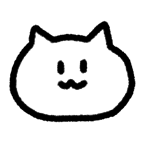
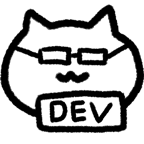
아이콘/contact 업데이트

diff --git a/app/contact/contact.module.css b/app/contact/contact.module.css
@@ -1,3 +1,4 @@
+/* app/contact/contact.module.css */
 .page {
     padding: 2rem;
     font-family: sans-serif;
@@ -7,32 +8,109 @@
 
 .header {
     text-align: center;
-    margin-bottom: 3rem;
+    margin-bottom: 2rem; /* 이미지와 메인 컨텐츠 간격 조정 */
 }
 
-.header h1 {
-    font-size: 2.5rem;
-    margin-bottom: 0.5rem;
+/* 이미지 래퍼 스타일 추가 (방법 2 적용) */
+.imageWrapper {
+  position: relative;
+  width: 250px; /* 원하는 너비 */
+  aspect-ratio: 383 / 530; /* 이미지의 실제 원본 비율 (D1.png 기준, 필요시 조정) */
+  margin: 0 auto; /* 헤더 내에서 가운데 정렬 */
+  cursor: pointer; /* 클릭 가능 표시 */
+  overflow: hidden; /* 이미지가 넘치지 않도록 */
+}
+
+/* fill prop 사용 시 Image 컴포넌트 스타일 */
+.fillImage {
+  object-fit: cover; /* 이미지가 영역을 꽉 채우도록 */
+  transition: transform 0.3s ease-in-out; /* 부드러운 전환 효과 */
+}
+
+
+.header h1 { /* 기존 h1 제거됨 (이미지로 대체) */
+    /* font-size: 2.5rem; */
+    /* margin-bottom: 0.5rem; */
 }
 
 .header p {
     font-size: 1rem;
     color: #666;
+    margin-top: 1rem; /* 이미지와의 간격 */
 }
 
 .main {
     width: 100%;
-    display: flex; /* 가로 배치 위해 flex 사용 */
-    flex-direction: column; /* 기본 세로 배치 */
-    gap: 3rem; /* 섹션 간 간격 */
-    align-items: center; /* 수직 가운데 정렬 */
+    display: flex;
+    flex-direction: column;
+    gap: 2rem; /* 섹션 간 간격 조정 */
+    align-items: center;
 }
 
+/* 연락처 정보 및 링크 정보 공통 스타일 */
+.contactInfo,
+.linksInfo { /* .linksInfo 추가 */
+    background-color: #f9f9f9;
+    padding: 1.5rem;
+    border-radius: 8px;
+    border: 1px solid #eee;
+    width: 250px;
+}
+
+.contactInfo h2,
+.linksInfo h2 { /* .linksInfo 추가 */
+    margin-top: 0;
+    margin-bottom: 1.5rem;
+    font-size: 1.3rem;
+    border-bottom: 1px solid #ddd;
+    padding-bottom: 0.5rem;
+    text-align: center;
+}
+
+.icon {
+    font-size: 1.3rem;
+    color: #333;
+    min-width: 20px;
+    text-align: center;
+}
+
+/* Vercel 아이콘 대체 텍스트 스타일 */
+.icon:not([class*="Fa"]) { /* react-icons 아이콘이 아닌 경우 */
+    font-weight: bold;
+    font-size: 1.1rem; /* 크기 조정 */
+}
+
+
+.infoItem {
+    margin-bottom: 1rem;
+    font-size: 0.9rem;
+    color: #555;
+    display: flex;
+    align-items: center;
+    gap: 0.8rem;
+}
+/* 마지막 infoItem의 하단 여백 제거 (선택 사항) */
+.infoItem:last-child {
+    margin-bottom: 0;
+}
+
+
+.infoItem a {
+    color: #0070f3;
+    text-decoration: none;
+    word-break: break-all; /* 긴 URL 줄바꿈 */
+}
+
+.infoItem a:hover {
+    text-decoration: underline;
+}
+
+/* 문의 폼 (기존 스타일 유지, display: none;) */
 .contactForm {
     display: flex;
     flex-direction: column;
     gap: 1.5rem;
-    display: none;
+    display: none; /* 숨김 처리 */
 }
 
 .formGroup {
@@ -69,51 +147,6 @@
     background-color: #555;
 }
 
-/* 연락처 정보 섹션 */
-.contactInfo {
-    background-color: #f9f9f9;
-    padding: 1.5rem;
-    border-radius: 8px;
-    border: 1px solid #eee;
-}
-
-.contactInfo h2 {
-    margin-top: 0;
-    margin-bottom: 1.5rem;
-    font-size: 1.3rem;
-    border-bottom: 1px solid #ddd;
-    padding-bottom: 0.5rem;
-    /* 추가 */
-    text-align: center;
-}
-
-.icon {
-    font-size: 1.3rem; /* 아이콘 크기 */
-    color: #333; /* 아이콘 색상 */
-    min-width: 20px; /* 아이콘 최소 너비 (정렬용) */
-    text-align: center;
-}
-
-.infoItem {
-    margin-bottom: 1rem;
-    font-size: 0.9rem;
-    color: #555;
-    /* 추가: 아이콘과 텍스트 정렬 */
-    display: flex;
-    align-items: center;
-    gap: 0.8rem; /* 아이콘과 텍스트 사이 간격 */
-}
-
-.infoItem a {
-    color: #0070f3; /* 링크 색상 */
-    text-decoration: none;
-}
-
-.infoItem a:hover {
-    text-decoration: underline;
-}
-
-/* 문의 양식 제목 */
 .contactForm h2 {
     margin-top: 0;
     margin-bottom: 1.5rem;
@@ -121,15 +154,23 @@
     text-align: center;
 }
 
-/* 부모 요소 스타일 */
-.imageWrapper {
-  position: relative; /* Image fill 사용 시 필수 */
-  width: 200px; /* 원하는 너비 */
-  aspect-ratio: 383 / 530; /* 이미지의 원본 비율 (너비 / 높이) - 실제 비율로 수정 */
-    margin: 0 auto; /* 가운데 정렬 */
-}
-
-/* fill prop 사용 시 Image 컴포넌트 스타일 */
-.fillImage {
-  object-fit: contain; /* 또는 cover, 필요에 따라 선택 */
+/* 모바일 반응형 */
+@media (max-width: 480px) {
+    .page {
+        padding: 1rem;
+    }
+    .imageWrapper {
+        width: 200px; /* 모바일에서 이미지 크기 줄이기 */
+    }
+    .contactInfo h2,
+    .linksInfo h2 {
+        font-size: 1.1rem;
+    }
+    .infoItem {
+        font-size: 0.85rem;
+        gap: 0.6rem;
+    }
+    .icon {
+        font-size: 1.1rem;
+    }
 }

diff --git a/app/contact/page.js b/app/contact/page.js
@@ -1,51 +1,74 @@
 'use client';
 
-// cutiefunny/musclecat-studio/musclecat-studio-9a81173fb6244becb85a7f9ae672a21081aa87cb/app/contact/page.js
+// cutiefunny/musclecat-studio/musclecat-studio-69b8328c83a86b17efd454da2083bf135e4c6a70/app/contact/page.js
 import styles from './contact.module.css';
 import Image from 'next/image';
-import { FaPhone, FaEnvelope, FaInstagram } from 'react-icons/fa';
-import React from 'react';
+// FaGithub 아이콘 추가
+import { FaPhone, FaEnvelope, FaInstagram, FaGithub } from 'react-icons/fa';
+import React, { useState, useEffect } from 'react';
 
 export default function Contact() {
-  const [imageIndex, setImageIndex] = React.useState(Math.floor(Math.random() * 4) + 1);
+  const [imageIndex, setImageIndex] = useState(1);
+
+  // useEffect를 사용하여 컴포넌트가 클라이언트에 마운트된 후에
+  // 랜덤 이미지 인덱스를 설정합니다.
+  useEffect(() => {
+    setImageIndex(Math.floor(Math.random() * 4) + 1);
+  }, []); // 빈 배열을 전달하여 마운트 시 한 번만 실행되도록 합니다.
 
   const changeImage = () => {
-    setImageIndex(Math.floor(Math.random() * 4) + 1);
+    // 이미지를 변경할 때 현재와 다른 이미지가 나오도록 개선 (선택 사항)
+    let newIndex;
+    do {
+      newIndex = Math.floor(Math.random() * 4) + 1;
+    } while (newIndex === imageIndex);
+    setImageIndex(newIndex);
   };
 
   return (
     <div className={styles.page}>
       <header className={styles.header}>
-          <div className={styles.imageWrapper}>
-            <Image
-              src={`/images/D${imageIndex}.png`}
-              alt="Random Image"
-              fill
-              className={styles.fillImage}
-              priority
-              sizes="(max-width: 768px) 100vw, (max-width: 1200px) 50vw, 33vw"
-              onClick={changeImage}
-            />
-          </div>
-            </header>
-            <main className={styles.main}>
-          {/* 연락처 정보 섹션 */}
+        <div className={styles.imageWrapper} onClick={changeImage} title="클릭하여 이미지 변경">
+          <Image
+            src={`/images/D${imageIndex}.png`}
+            alt="Random Muscle Cat Image"
+            fill
+            className={styles.fillImage}
+            priority
+            sizes="(max-width: 768px) 100vw, 300px"
+          />
+        </div>
+      </header>
+      <main className={styles.main}>
         <section className={styles.contactInfo}>
-          <h2>Contact Information</h2> {/* 영어로 변경됨 */}
+          <h2>Contact Information</h2>
           <div className={styles.infoItem}>
-            {/* Mobile 텍스트 대신 아이콘 사용 */}
             <FaPhone className={styles.icon} />
             <a href="tel:010-8315-1379">010-8315-1379</a>
           </div>
           <div className={styles.infoItem}>
-            {/* Email 텍스트 대신 아이콘 사용 */}
             <FaEnvelope className={styles.icon} />
             <a href="mailto:cutiefunny@naver.com">cutiefunny@naver.com</a>
           </div>
           <div className={styles.infoItem}>
-            {/* Instagram 텍스트 대신 아이콘 사용 */}
             <FaInstagram className={styles.icon} />
             <a href="https://instagram.com/musclecat_mart" target="_blank" rel="noopener noreferrer">@musclecat_mart</a>
+          </div>
+        </section>
+
+        <section className={styles.linksInfo}>
+          <h2>Links</h2>
+          <div className={styles.infoItem}>
+            <FaGithub className={styles.icon} />
+            <a href="https://github.com/cutiefunny" target="_blank" rel="noopener noreferrer">
+              GitHub Profile
+            </a>
+          </div>
+          <div className={styles.infoItem}>
+            <span className={styles.icon}>▲</span>
+            <a href="https://vercel.com/cutiefunny" target="_blank" rel="noopener noreferrer">
+              Vercel Profile
+            </a>
           </div>
         </section>
 
